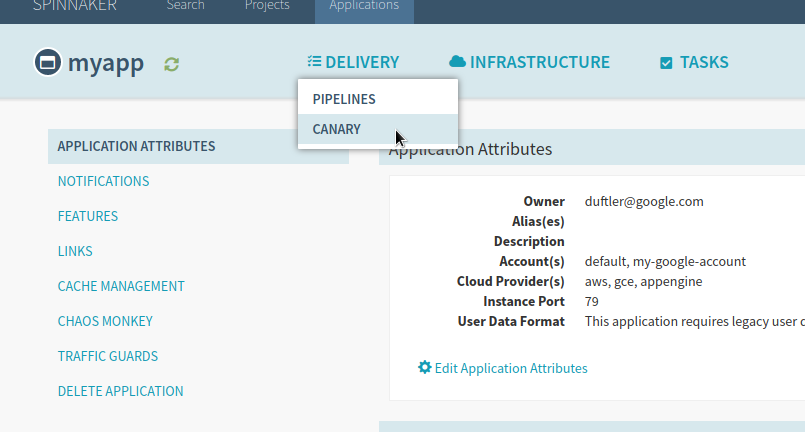
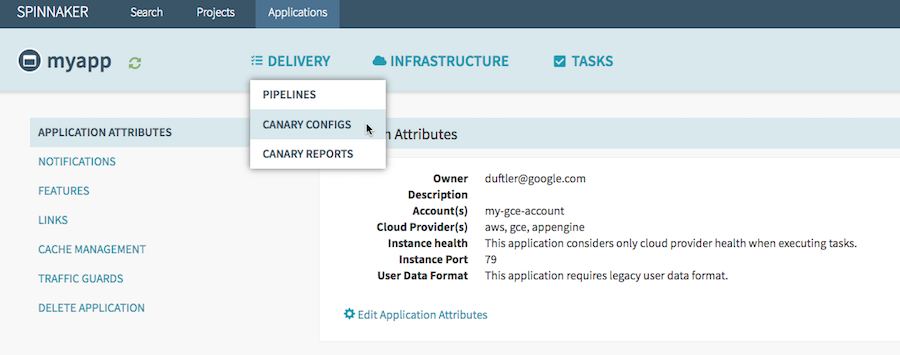
chore(kayenta): Update screengrab and filter template docs.

diff --git a/guides/user/canary/config/index.md b/guides/user/canary/config/index.md
@@ -55,7 +55,7 @@ Canary](/setup/canary/).
 ## Create a canary configuration
 
 You can create as many of these as you like, and when you create a canary stage,
-you can select which configuration to use. Configurations you create within an
+you must select a canary configuration to use. Configurations you create within an
 application are available to all pipelines in that application, but your
 Spinnaker might be set up so that all configurations are available to all
 applications.
@@ -72,7 +72,7 @@ applications.
 
 1. (Optional) select your telemetry provider from the __Metric Store__ dropdown.
 
-   If you have only one provider set up, this is not a drop-down.
+   If you have only one provider set up, this drop-down is not shown.
 
    ![Canary config declaration](/guides/user/canary/config/canary_config_create.png)
 
@@ -171,13 +171,18 @@ metric a filter template, if you want.
    This is the name by which you can select it when configuring the specific
    metric.
 
-1. In the __Template__ field, enter an expression identifying the filter
-template resource.
+1. In the __Template__ field, enter an expression using the [FreeMarker](https://freemarker.apache.org/)
+   template language.
 
-   This expression is resolved to the filter template resource using __Extended
+   See the interpolation syntax [here](https://freemarker.apache.org/docs/dgui_quickstart_template.html).
+
+   The expression is expanded using the variable bindings specified via the __Extended
    Params__ in any [canary
    stage](/guides/user/canary/stage/#define-the-canary-stage) that uses this
    configuration.
+
+   These variable bindings are also implicitly available: `project`, `resourceType`, `scope`, `location`
+
 
 ## Edit a configuration
 

diff --git a/guides/user/canary/config/filter_templates/index.md b/guides/user/canary/config/filter_templates/index.md
@@ -59,6 +59,7 @@ Params__, click __Add Field__.
 2. Under __Key__, type a variable you used in a filter template in the config
 this stage is using.
 
-3. Add the value you want for that variable.
+3. Add the value you want for that variable. You can use any literal or
+   [pipeline expression](/guides/user/pipeline-expressions/).
 
 ![](/guides/user/canary/config/filter_templates/extended_params.png)
